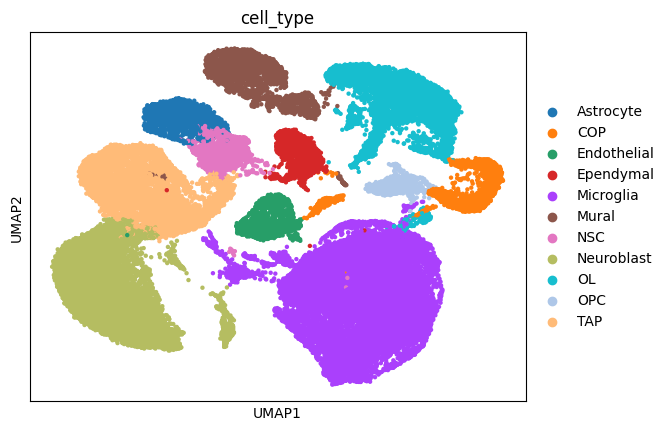
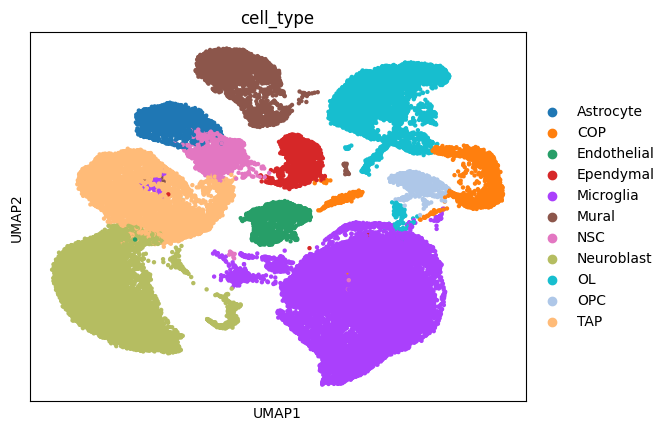
update versions

diff --git a/run_pipeline.py b/run_pipeline.py
@@ -23,7 +23,6 @@ import train_ol_classifier
 import tap_analysis
 import velocity_build
 from rna_velocity_pipeline import run_rna_velocity_pipeline
-from marker_dotplot import run_marker_dotplot
 
 ROOT = Path(__file__).parent
 OUT = ROOT / "outputs"
@@ -107,8 +106,6 @@ def main() -> None:
 
     print("running rna velocity pipeline")
     run_rna_velocity_pipeline()
-    print("running marker dotplot")
-    run_marker_dotplot()
     print("comparing fate methods")
     run_compare_fate_methods()
     print(f"\n=== ALL DONE in {time.time() - overall:.0f}s ===")